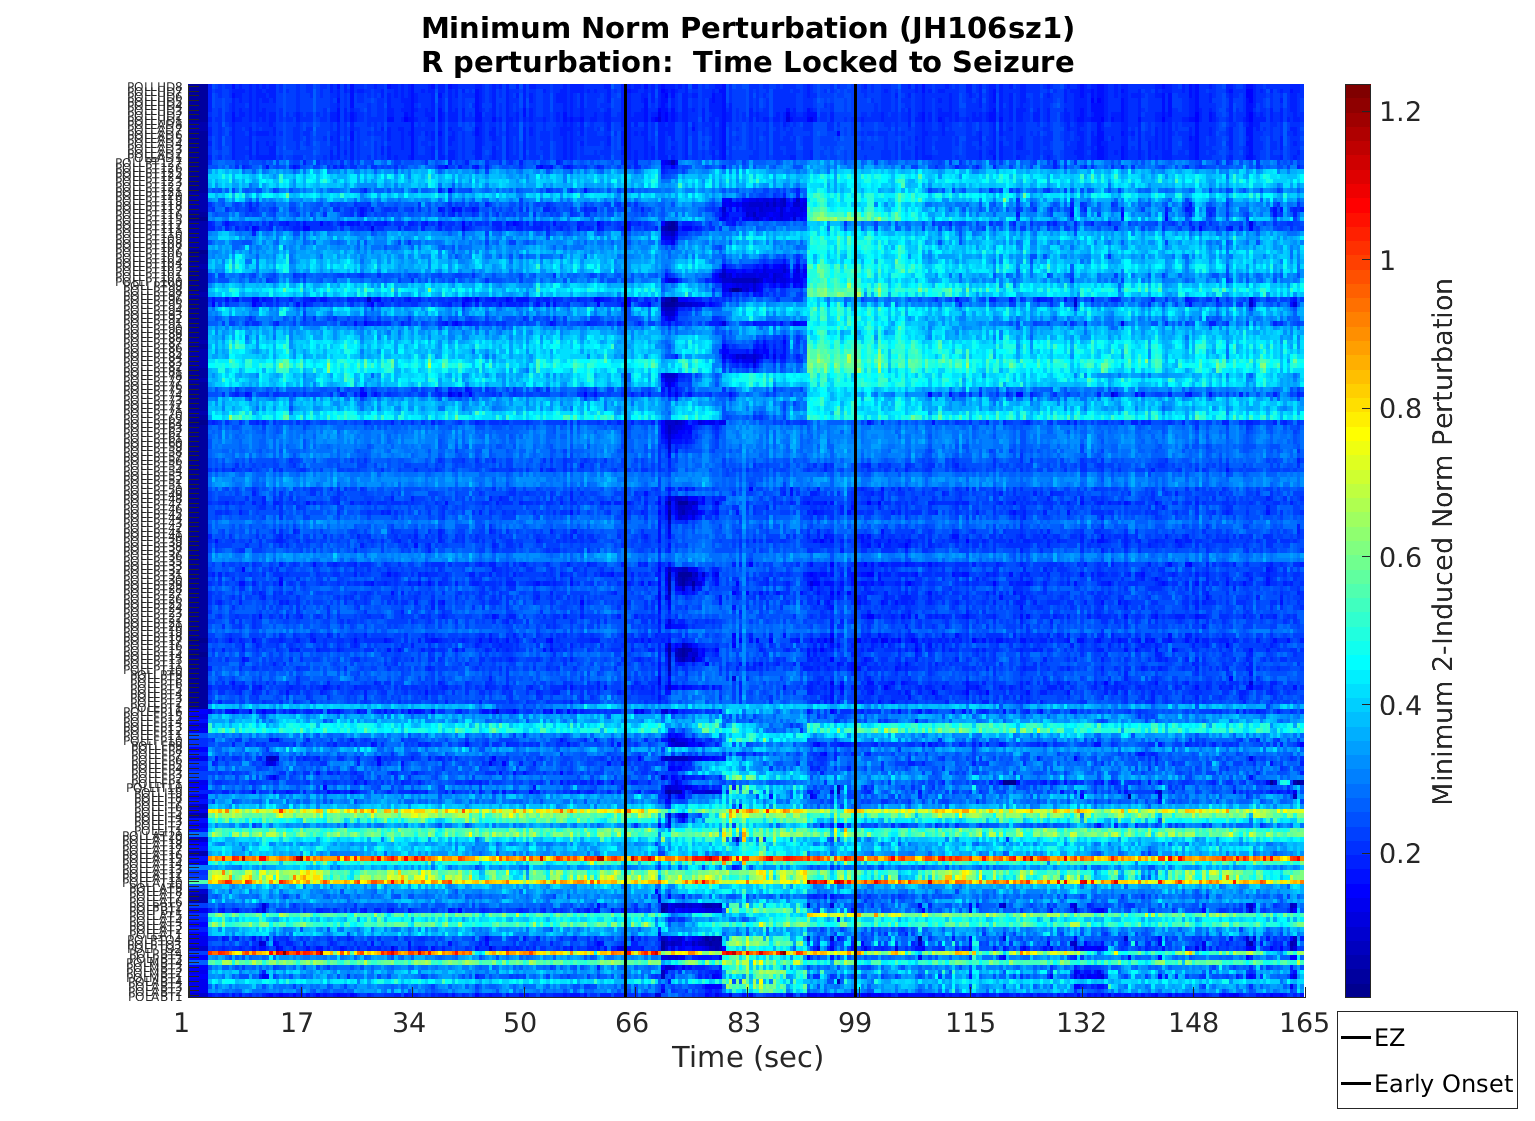
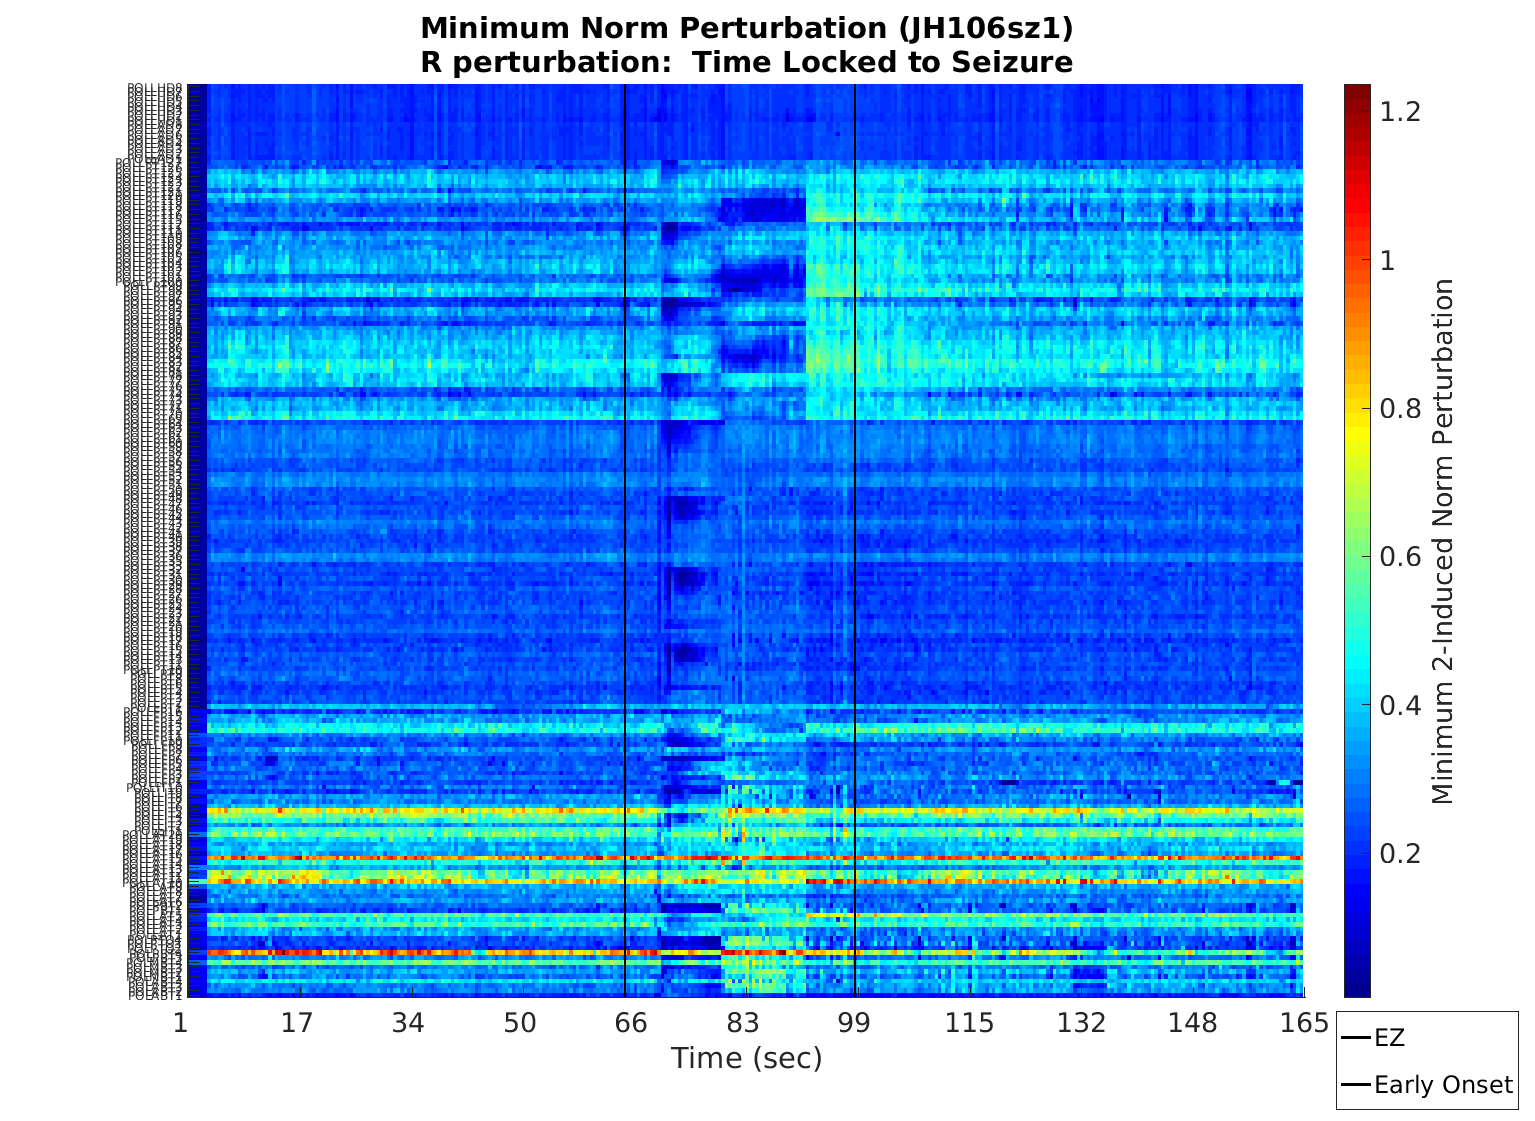
Adding JHu101 and 106 figures.

diff --git a/fragility_dataanalysis/server/serverSetupComputePert.m b/fragility_dataanalysis/server/serverSetupComputePert.m
@@ -16,15 +16,15 @@ patients = {,...,
 %     'pt8sz2' 'pt8sz3',...
 %     'pt10sz1' 'pt10sz2' 'pt10sz3', ...
 %     'pt11sz1' 'pt11sz2' 'pt11sz3' 'pt11sz4', ...
-    'pt14sz1' 'pt14sz2' 'pt14sz3' 'pt15sz1' 'pt15sz2' 'pt15sz3' 'pt15sz4',...
-    'pt16sz1' 'pt16sz2' 'pt16sz3',...
-    'pt17sz1' 'pt17sz2',...
-%     'JH101sz1' 'JH101sz2' 'JH102sz3' 'JH102sz4',...
+%     'pt14sz1' 'pt14sz2' 'pt14sz3' 'pt15sz1' 'pt15sz2' 'pt15sz3' 'pt15sz4',...
+%     'pt16sz1' 'pt16sz2' 'pt16sz3',...
+%     'pt17sz1' 'pt17sz2',...
+%     'JH101sz1' 'JH101sz2',... %'JH102sz3' 'JH102sz4',...
 % 	'JH102sz1' 'JH102sz2' 'JH102sz3' 'JH102sz4' 'JH102sz5' 'JH102sz6',...
 % 	'JH103sz1' 'JH102sz2' 'JH102sz3',...
 % 	'JH104sz1' 'JH104sz2' 'JH104sz3',...
 % 	'JH105sz1' 'JH105sz2' 'JH105sz3' 'JH105sz4' 'JH105sz5',...
-% 	'JH106sz1' 'JH106sz2' 'JH106sz3' 'JH106sz4' 'JH106sz5' 'JH106sz6',...
+%   'JH106sz1' 'JH106sz2' 'JH106sz3' 'JH106sz4' 'JH106sz5' 'JH106sz6',...
 % 	'JH107sz1' 'JH107sz2' 'JH107sz3' 'JH107sz4' 'JH107sz5' 'JH107sz6' 'JH107sz7' 'JH107sz8' 'JH107sz8',...
 %    'JH108sz1', 'JH108sz2', 'JH108sz3', 'JH108sz4', 'JH108sz5', 'JH108sz6', 'JH108sz7',...
 %     'EZT030seiz001', 'EZT030seiz002', 

diff --git a/fragility_dataanalysis/runPlotsAndDOA.m b/fragility_dataanalysis/runPlotsAndDOA.m
@@ -24,12 +24,12 @@ patients = {,...,
 % 	'JH103sz1' 'JH102sz2' 'JH102sz3',...
 % 	'JH104sz1' 'JH104sz2' 'JH104sz3',...
 % 	'JH105sz1' 'JH105sz2' 'JH105sz3' 'JH105sz4' 'JH105sz5',...
-% 	'JH106sz1' 'JH106sz2' 'JH106sz3' 'JH106sz4' 'JH106sz5' 'JH106sz6',...
+	'JH106sz1' 'JH106sz2' 'JH106sz3' 'JH106sz4' 'JH106sz5' 'JH106sz6',...
 % 	'JH107sz1' 'JH107sz2' 'JH107sz3' 'JH107sz4' 'JH107sz5' 'JH107sz6' 'JH107sz7' 'JH107sz8' 'JH107sz8',...
 %    'JH108sz1', 'JH108sz2', 'JH108sz3', 'JH108sz4', 'JH108sz5', 'JH108sz6', 'JH108sz7',...
+%       'EZT037seiz001', 'EZT037seiz002',...
+%       'EZT019seiz001', 'EZT019seiz002',...
 %     'EZT030seiz001', 'EZT030seiz002', 
-      'EZT037seiz001', 'EZT037seiz002',...
-      'EZT019seiz001', 'EZT019seiz002',...
 %     'EZT045seiz001', 'EZT045seiz002',...
 % 	'EZT070seiz001', 'EZT070seiz002', 'EZT005seiz001', 'EZT005seiz002', 'EZT007seiz001', 'EZT007seiz002', ...
 % 'EZT090seiz002', 'EZT090seiz003' ...
